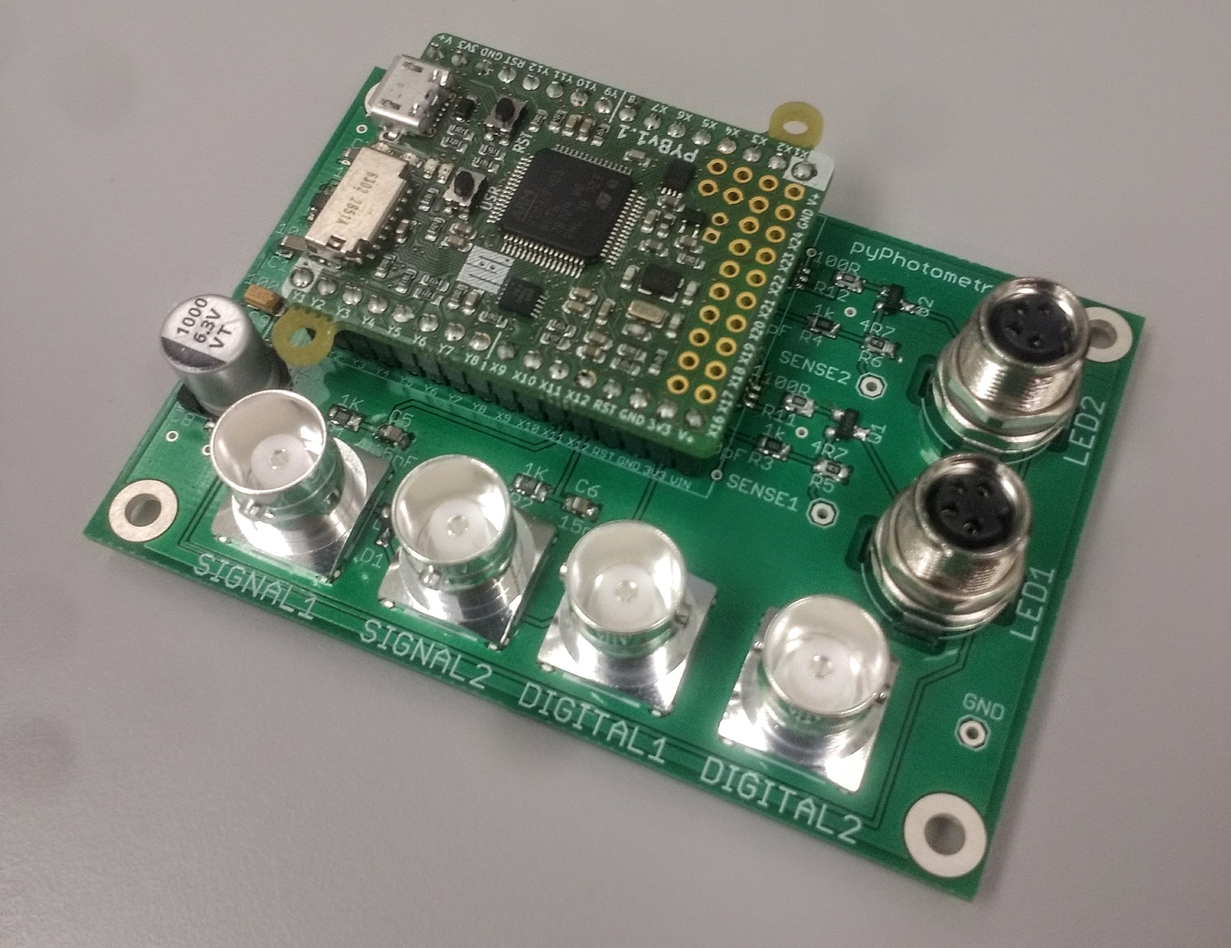
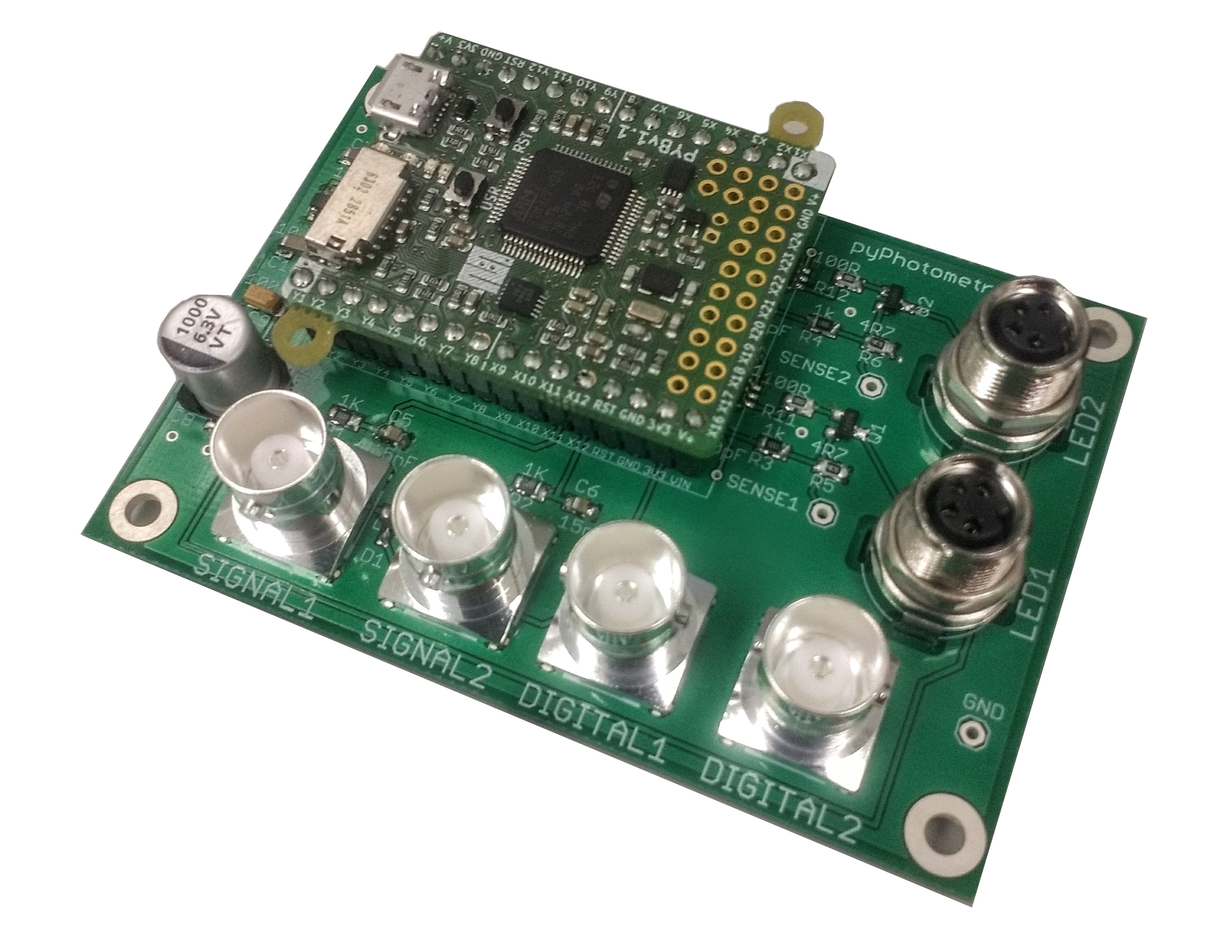
- Added diagram of optical components and assembly instructions.
- Updated board photo.

diff --git a/docs/user-guide/hardware.md b/docs/user-guide/hardware.md
@@ -22,12 +22,42 @@ The two BNC digital inputs are compatible with 5V or 3.3V logic and are typicall
 
 The aquisition board has two constant current LED driver circuits which are controlled by the Micropython's digtal to analog converters (DACs), allowing the LED current to be adjusted between 0 - 100mA.  The LED driver outputs are M8 connectors that are compatible with either [Doric](http://doriclenses.com/life-sciences/led-modules/783-connectorized-led.html) or [Thor Labs](https://www.thorlabs.com/newgrouppage9.cfm?objectgroup_id=5206) connectorized LEDs.  
 
-The LED driver circuits are voltage controlled current sinks in which an op amp adjusts the voltage at an N-MOSFET's gate to bring the voltage across a sense resistor in series with the LED into agreement with a voltage control signal generated by the microcontroller.  A resistor between the 3.3V rail and the inverting input of the op amp raises the voltage at the inverting input slightly above 0V when the LED current is 0A, ensuring the MOSFET is fully turned off when the control voltage is 0V.  The LED current can be monitored by monitoring the voltage between the *SENSE1* or *SENSE2* and *GND* connections on the acquisition board, which is the voltage across the sense resistors (4.7 ohm) in series with the respective LEDs. 
+The LED driver circuits are voltage controlled current sinks in which an op amp adjusts the voltage at an MOSFET's gate to bring the voltage across a sense resistor in series with the LED into agreement with the control voltage from the microcontroller.  A resistor between the 3.3V rail and the inverting input of the op amp ensures the MOSFET is fully turned off when the control voltage is 0.  The LED current can be monitored by measuring the voltage between the *SENSE1* or *SENSE2* and *GND* connections on the acquisition board, which gives the voltage across the 4.7 ohm sense resistors in series with the respective LEDs.
 
-# Additional components
+# Assembly instructions
 
-To make a complete photometetry system the acquisition board needs to be paired with LEDs, photorecievers, filter cubes and other optical components.  A [parts list](https://bitbucket.org/takam/pyphotometry_hardware/src) for a complete set of additional components that can be used with the aquisition board for green/red two colour experiments (e.g. GCaMP/TdTomato) is provided in the hardware repository.  
+**Acquisition board**
 
-If you plan to use the time-division multiplexed illumination modes ensure that the photodetectors used have sufficient bandwidth.  We use [Newport 2151](https://www.newport.com/p/2151) photorecievers which have a bandwidth of 0-750 Hz.
+The acquisition board can be purchased from OEPS for €350 (<info@oeps.tech>) or built from components.  The design files for the acquitition board are in the [hardware repository](https://bitbucket.org/takam/pyphotometry_hardware). To assemble the board from components you will need to get the PCB printed (using either the Gerber or Eagle files) and order the electronic components listed in the BOM (Farnell part numbers are provided).
 
-The mounting holes on the acquisition board have a 50 x 75mm spacing so the board can be mounted directly onto a Thorlabs metric optical breadboard using mM6 to M3 thread adaptors.
+Assembling the acquisition board requires both surface mount and through hole soldering.  The surface mount soldering can be done either using a reflow oven or hand soldering.  Hand soldering of surface mount components requires a bit of practice but there are lots of [tutorials](https://www.google.co.uk/search?q=surface+mount+soldering+tutorial) online.  Solder all the surface mount components before soldering the through hole components.
+
+**Optical components**
+
+To make a complete photometetry system the acquisition board needs to be paired with LEDs, photorecievers, filter cubes and other optical components.  A [parts list](../resources/optical-components.md) for a set of additional components that can be used with the aquisition board for green/red two colour experiments (e.g. GCaMP/TdTomato) is provided in the resources section of the docs, and as a Excel file in the hardware repository.
+
+If you plan to use the time-division multiplexed illumination mode, the maximum sampling rate that can be  achieved without crosstalk between the signals will depend on the bandwidth of the photoreievers.  We use [Newport 2151](https://www.newport.com/p/2151) photorecievers in DC coupled mode, which have a bandwidth of 0-750 Hz.
+
+The optical components for the red/green system are positioned and connected as indicated below:
+
+![pyPhotometry GUI](../media/optical_parts_diagram.jpg)
+ 
+ To assemble the system:
+
+Attach the minicube to the optical breadboard using the clamp (CL3/M) and 45mm M6 bolts.
+    
+Attach the acquisition board to the breadboard using the M6-M3 screw adaptors, M3 spacers and 10mm M3 screws.  Screw the adaptors into the breadboard, then attach the acquisition board with the spacers between the board and the adaptors.
+
+Attach the Newport photorecievers to the breadboard using the pillars (TRP14/M), clamping forks (MSC2) and 12mm M6 bolts.
+
+Attach the LEDs to the breadboard using the 12mm M6 bolts.
+
+Connect the photorecievers to the minicube using the 600um core 0.48NA optic fibers  (MFP_600/630/LWMJ-0.48_0.3m_FCM-FCM)
+
+Connect the LEDs to the minicube using the 200um core 0.22NA optic fibers (MFP_200/220/LWMJ-0.22_0.3m_FCM-FCM)
+
+Connect the photorecivers to the acquisition board analog inputs using the 30cm BNC cables.
+
+Connect the LEDs to the acquisition board LED outputs using their built in cables.  It is not necessary to connect the power supplies for the LED cooling fans as the maximum current output by the acquisition board is only 10% of the LEDs rated current.
+
+Connect the pigtailed rotary joint to the sample port of the minicube and connect the fiber patchcord to the rotary joint using the FC-FC adapter.

diff --git a/docs/index.md b/docs/index.md
@@ -1,24 +1,18 @@
 # pyPhotometry
 
-Open source, Python based, photometry data acquisition.
+Open source, Python based, fiber photometry data acquisition.
 
 ---
 
-## Overview
-
-pyPhotometry is system of open source hardware and software for neuroscience fiber photometry data acquisition consisting of an [acquisition board](user-guide/hardware.md) and graphical user interface [GUI](user-guide/graphical-user-interface.md). 
-
-pyPhotometry supports data aquisition from two analog and two digital inputs, and control of two LEDs via built in LED drivers with an adjustable 0-100mA output.  The system supports time-division multiplexed illumination which allow fluoresence evoked by different excitation wavelengths to be independenly readout from a single photoreciever signal.  For validation experiments see the pyPhotometry manuscript on [bioRxiv](test).
-
-The acquisition board is compact, cheap, USB bus powered, and built around the [Micropython](http://micropython.org) microcontroller.  Assembled acquisition boards can be purchased from the Open Ephys Production Site (info@oeps.tech). 
-
-**Acquisition board**
 ![Acquisition board](media/board_photo.jpg)
 
-The cross-platform, Python based, GUI controls data acquisition and visualises signals during experiments.
+## Overview
 
-**GUI**
-![pyPhotometry GUI](media/pyPhotometry_GUI.jpg)
+pyPhotometry is system of open source hardware and software for neuroscience fiber photometry data acquisition, consisting of an [acquisition board](user-guide/hardware.md) and [graphical user interface](user-guide/graphical-user-interface.md). 
+
+pyPhotometry supports data aquisition from two analog and two digital inputs, and control of two LEDs via built in LED drivers with an adjustable 0-100mA output.  The system supports time-division multiplexed illumination which allows fluoresence evoked by different excitation wavelengths to be independenly readout from a single photoreciever signal.  For validation experiments see the pyPhotometry [manuscript](https://www.biorxiv.org/content/early/2018/10/03/434225).
+
+For questions about the pyPhotometry system contact the [google group](https://groups.google.com/forum/#!forum/pycontrol).
 
 ---
 
@@ -59,6 +53,10 @@ Unzip the file and you will have the following folder structure:
 - data  # Default data directory.
 ```
 
+### Hardware
+
+The acquisition board can be purchased from the Open Ephys Production Site for €350 (<info@oeps.tech>) or built from components.  Assembly instructions for a red/green photometry system are provided in the [hardware user guide](user-guide/hardware.md#assembly-instructions).
+
 ### Running an experiment
 
 Connect a pyPhotometry acquisition board to the computer with a USB cable, it will show up as both a USB serial port and a flash drive.
@@ -69,11 +67,8 @@ Load the GUI by running the file *photometry_gui.py* in the folder *pyPhotometry
 
 Select your aqusition board using the *Serial port* drop down menu and connect to the board with the connect button.
 
-Press *Start* to start data acquisition.  To record data enter a subject ID and press *Record*.
+Select the data acquisition mode, for more information see the [GUI user guide](user-guide/graphical-user-interface.md#acquisition-settings).
 
-For information on opening data files generated by pyPhotometry see [Importing data](user-guide/graphical-user-interface.md).
+Press *Start* to start data acquisition.  To record data enter a subject ID and data directory and press *Record*.
 
-
-
-
-
+For information on opening data files generated by pyPhotometry see [Importing data](user-guide/importing-data.md).

diff --git a/docs/resources/optical-components.md b/docs/resources/optical-components.md
@@ -1,0 +1,24 @@
+The table below lists a set of components that can be used with the acquisition board for red/green two colour photometry experiments.  For assembly instructions see the [hardware user guide](../user-guide/hardware.md#assembly-instructions).
+
+| Name | Quantity | Part | Supplier |
+| ---- | -------- | ---- | -------- |
+| Photoreciever  | 2   | Newport 2151 with lensed FC adapter | Doric    |
+| 465nm   LED   | 1        | CLED_465   | Doric    |
+| 560nm   LED   | 1        | CLED_560                   | Doric    |
+| Minicube   | 1    | FMC5_E1(450-490)_F1(500-540)_E2(550-580)_F2(600-680)_S | Doric  |
+| Fiber patchcord:  LED - Minicube | 2      | MFP_200/220/LWMJ-0.22_0.3m_FCM-FCM | Doric    |
+| Fiber patchcord:  Minicube - Photoreciever | 2 | MFP_600/630/LWMJ-0.48_0.3m_FCM-FCM | Doric |
+| Fiber   patchcord: Rotary-sample | 1 | MFP_200/220/900-0.48_1m_FCM-MF1.25 | Doric|
+| Pigtailed   rotary joint | 1 | FRJ_1x1_PT_200/230/LWMJ-0.48_1m_FCM_0.2m_FCM | Doric |
+| FC-FC adapter | 1        | ADAPTER_FC style 2 | Doric |
+| Optical breadboard 150x300mm metric | 1 | MB1530F/M  | Thorlabs |
+| M6 - M3   thread adapter | 4        | MSA6/M  | Thorlabs |
+| Clamp   for minicube | 1 | CL3/M | Thorlabs |
+| Clamp for photodetector | 2    | MSC2 Clamping Fork for 1/4"-20 (M6) Cap Screw  | Thorlabs |
+| Pillar   for photodetector   | 2   | TRP14/M Ø12 mm Pedestal Pillar   Post  | Thorlabs |
+| M6 screw   12mm | 4        | SH6MS12 | Thorlabs |
+| USB A -   micro B cable 1.8m                         | 1        | 121-3251                                               | RS       |
+| BNC   cable 0.3m: Photoreciever to acquisition board | 2        | 886-0706                                               | RS       |
+| M3 screw   10mm                                      | 4        | 660-4636                                               | RS       |
+| M3   spacer 3mm                                      | 4        | 161-3676                                               | RS       |
+| M6 x   45mm                                          | 2        | 468-0133                                               | RS       |
